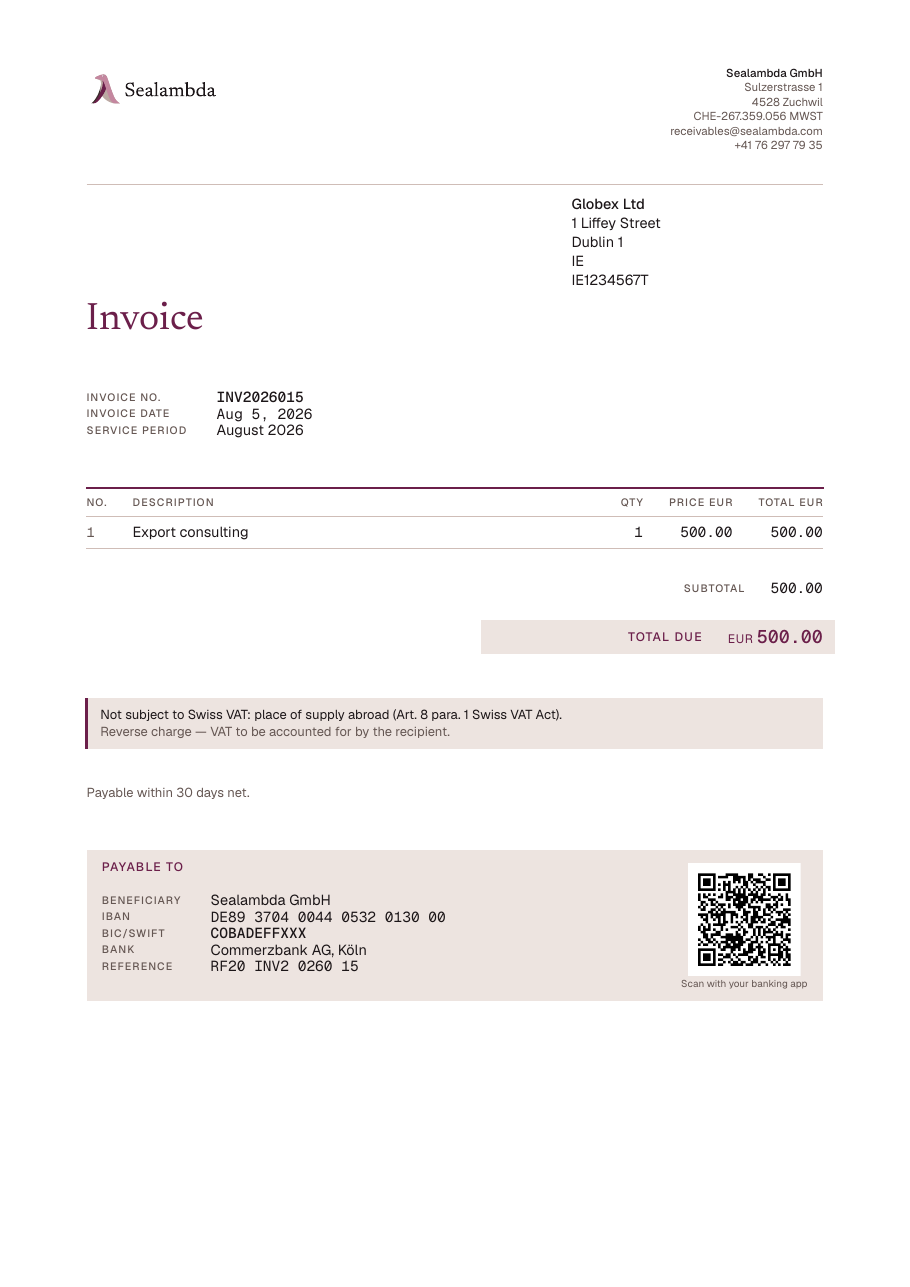
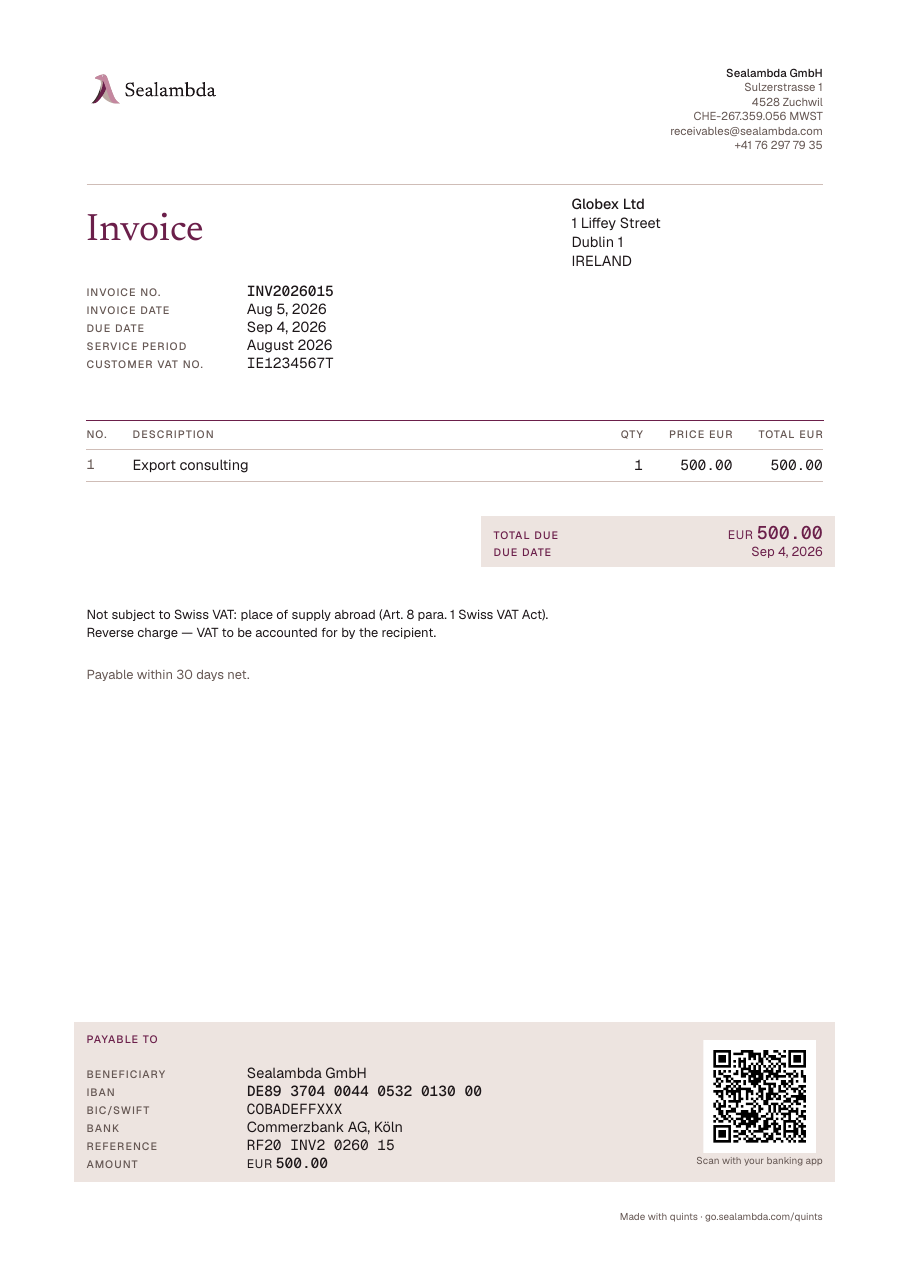
feat(invoice): due date, localized QR slip, and a grid that locks
- Print the due date (issue date + terms) in the meta grid, under the
  amount due, and in the PDF summary; terms stay as secondary text.
- QR-bill payment part in the invoice language (de/fr/it/en, else en).
- Recipient block holds postal lines only: country spelled out, within
  the margin; the customer VAT number moves to a labelled meta row.
- One label column and baseline for every label/value grid; panel tints
  bleed into the margin so the amount due sits on the figure column.
- Mono only for identifiers and amounts; dates, periods, units in the
  body face; IBAN carries the weight, one label size.
- Drop the subtotal when it would repeat the total, and the accent
  stripe on legal notes; the SEPA panel shows the amount and sits at
  the page foot; EPC alt text says what the code pre-fills.
- Title is a tagged H1; only the last page reserves the QR-bill's
  105 mm, and the totals no longer split from the amount due.
- Credit line points at go.sealambda.com/quints, as plain text (no link
  annotation).

Claude-Session: https://claude.ai/code/session_01CmJhgiFxHFoCBnJAHWW4nN

diff --git a/packages/quints/src/quints/invoice/render.py b/packages/quints/src/quints/invoice/render.py
@@ -7,7 +7,7 @@ import re
 import shutil
 import tempfile
 from collections.abc import Mapping
-from datetime import date, datetime, timezone
+from datetime import date, datetime, timedelta, timezone
 from decimal import Decimal
 from pathlib import Path
 from typing import TypedDict
@@ -97,6 +97,11 @@ def build_context(
         ),
         *({"label": r.label, "value": r.value} for r in inv.references),
     ]
+    due = (
+        _fmt_date(inv.issue_date + timedelta(days=inv.terms_days), inv.locale)
+        if inv.terms_days is not None and totals.amount_due
+        else ""
+    )
     return {
         "proforma": inv.proforma,
         "reverse_charge": reverse_charge,
@@ -118,12 +123,17 @@ def build_context(
             "name": customer.name,
             "address": customer.address,
             "country": customer.country,
+            # Postal convention: the country spelled out, in capitals, last line.
+            "country_name": Locale.parse(inv.locale)
+            .territories.get(customer.country, customer.country)
+            .upper(),
             "vat_id": customer.vat_id,
         },
         "invoice": {
             "number": inv.number,
             "supply": inv.supply.text(inv.locale),
             "issue_date": _fmt_date(inv.issue_date, inv.locale),
+            "due_date": due,
         },
         # The customer's own reference, then whatever else their side demands —
         # printed in the title meta grid, under the invoice number and date.
@@ -179,6 +189,8 @@ def _document_metadata(
         f"{due_label} {inv.currency} {money(totals.amount_due, inv.locale)}",
     ]
     if inv.terms_days is not None and totals.amount_due:
+        due = inv.issue_date + timedelta(days=inv.terms_days)
+        parts.append(f"{lbl['due_date']} {_fmt_date(due, inv.locale)}")
         parts.append(lbl["terms"].format(days=inv.terms_days))
     # Identifiers only: what a payer searches or matches the invoice on. The
     # payment reference compact, as it comes back on the bank statement.
@@ -352,6 +364,7 @@ def _sepa_payment(
     # The EPC code is SEPA credit transfers in euro only; anything else is
     # paid from the printed fields.
     scan = inv.currency == "EUR" and amount > 0
+    lbl = get_labels(inv.language)
     return {
         "type": "sepa",
         "beneficiary": beneficiary,
@@ -360,6 +373,10 @@ def _sepa_payment(
         "bank_name": account.bank_name,
         "reference": ref.formatted,
         "epc": epc.payload(beneficiary, account.iban, account.bic, amount, ref) if scan else None,
+        # What the code pre-fills, for whoever cannot scan it.
+        "alt": f"{lbl['scan_to_pay']} · {inv.currency} {money(amount, inv.locale)}"
+        f" · {lbl['payment_to']} {beneficiary} · IBAN {bank.format_iban(account.iban)}"
+        f" · {lbl['reference']} {ref.formatted}",
     }
 
 

diff --git a/packages/quints/tests/test_invoice.py b/packages/quints/tests/test_invoice.py
@@ -994,6 +994,9 @@ def test_export_payment_block_carries_the_full_instruction(
             "bank_name": "Commerzbank AG, Köln",
             "reference": "RF12 KEI2 0260 5",  # SCOR of the invoice number, grouped
             "epc": epc,
+            # The code's alt text says what it pre-fills, not just "scan me".
+            "alt": "Mit der Banking-App scannen · EUR 771.16 · Zahlbar an Muster GmbH"
+            " · IBAN DE89 3704 0044 0532 0130 00 · Referenz RF12 KEI2 0260 5",
         }
     ]
 
@@ -1116,3 +1119,27 @@ def test_epc_qr_only_for_euro_and_never_truncates_the_name(tmp_path: Path):
     usd = ISSUER.model_copy(update={"bank": {**ISSUER.bank, "USD": ISSUER.account("EUR")}})
     _, _, payload = render.render(_export(currency="USD"), usd, tmp_path / "x.pdf")
     assert payload is None  # SEPA credit transfers are euro only
+
+
+def test_context_prints_due_date_and_country_name():
+    from quints.invoice.render import build_context
+
+    inv = _export(locale="en_GB")  # issued 17 Jun 2026, 30 days net
+    ctx = build_context(inv, ISSUER, compute(inv), {"type": "sepa"})
+    assert ctx["invoice"]["due_date"] == "17 Jul 2026"
+    assert ctx["customer"]["country_name"] == "ESTONIA"  # postal last line, not "EE"
+    no_terms = _export(terms_days=None)
+    assert build_context(no_terms, ISSUER, compute(no_terms), {})["invoice"]["due_date"] == ""
+
+
+def test_qr_bill_slip_speaks_the_invoice_language(tmp_path: Path):
+    def slip(inv: Invoice) -> str:
+        qr.write_svg(
+            qr.build_bill(inv, ISSUER, ISSUER.account("CHF"), compute(inv)), tmp_path / "s.svg"
+        )
+        return (tmp_path / "s.svg").read_text()
+
+    inv = _domestic()  # de_CH
+    assert "Empfangsschein" in slip(inv)
+    inv.locale = "es_ES"  # no Spanish slip in the guidelines → English
+    assert "Receipt" in slip(inv)

diff --git a/packages/quints/src/quints/invoice/qr.py b/packages/quints/src/quints/invoice/qr.py
@@ -6,12 +6,22 @@ import re
 import warnings
 from collections.abc import Sequence
 from pathlib import Path
+from typing import Literal
 
 from qrbill import QRBill
 
 from . import reference as ref_mod
 from . import swico
 from .model import BankAccount, Invoice, Issuer, Totals
+
+# The languages the Implementation Guidelines print the payment part in; any
+# other invoice language gets the English slip.
+_SLIP_LANGUAGES: dict[str, Literal["en", "de", "fr", "it"]] = {
+    "en": "en",
+    "de": "de",
+    "fr": "fr",
+    "it": "it",
+}
 
 
 def _structured(name: str, lines: Sequence[str], country: str) -> dict[str, str | None]:
@@ -78,6 +88,7 @@ def build_bill(inv: Invoice, issuer: Issuer, account: BankAccount, totals: Total
             reference_number=payment_ref.value,
             additional_information=message,
             billing_information=billing,
+            language=_SLIP_LANGUAGES.get(inv.language, "en"),
         )
     # The Implementation Guidelines allow Arial, Frutiger, Helvetica and
     # Liberation Sans in the payment part, and nothing else. qrbill asks for

diff --git a/packages/quints/src/quints/invoice/labels.py b/packages/quints/src/quints/invoice/labels.py
@@ -17,6 +17,9 @@ LABELS = {
         "invoice": "Rechnung",
         "invoice_no": "Rechnungs-Nr.",
         "date": "Rechnungsdatum",
+        "due_date": "Zahlbar bis",
+        "customer_vat": "MWST-Nr. Kunde",
+        "amount": "Betrag",
         "supply": "Leistungsperiode",
         "your_reference": "Ihre Referenz",
         "pos": "Pos.",
@@ -53,6 +56,9 @@ LABELS = {
         "invoice": "Invoice",
         "invoice_no": "Invoice no.",
         "date": "Invoice date",
+        "due_date": "Due date",
+        "customer_vat": "Customer VAT no.",
+        "amount": "Amount",
         "supply": "Service period",
         "your_reference": "Your reference",
         "pos": "No.",
@@ -89,6 +95,9 @@ LABELS = {
         "invoice": "Factura",
         "invoice_no": "N.º de factura",
         "date": "Fecha de factura",
+        "due_date": "Vencimiento",
+        "customer_vat": "NIF-IVA del cliente",
+        "amount": "Importe",
         "supply": "Periodo de servicio",
         "your_reference": "Su referencia",
         "pos": "N.º",
